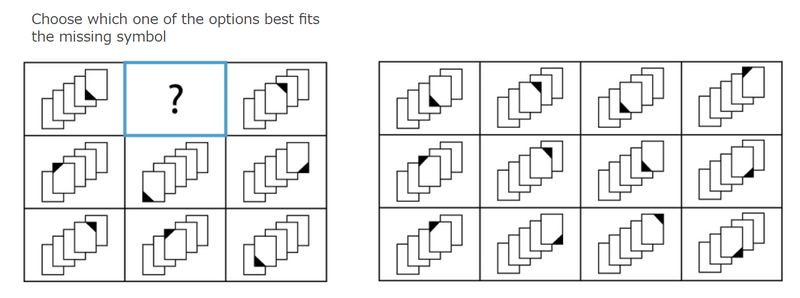
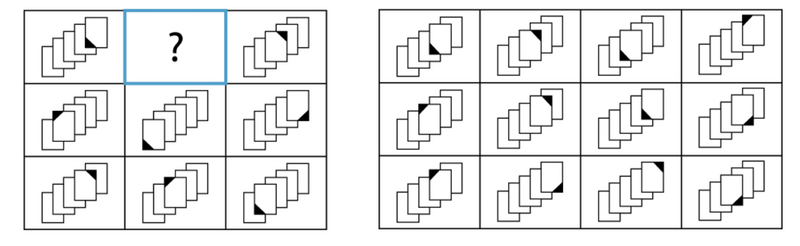
クイズ: 本番を8問に（第7・8問を追加）、回答と所要時間をシートへ記録、ウォームアップ画面を短く
- index.html: 本番の問題を6問→8問（q7・q8）、所要時間の案内を約9分に、送信に8問の選んだ番号と所要時間を入れる
- ウォームアップ画面: 冒頭の1文を上の帯へまとめ、説明の囲みを1つに、字を16pxに（縦幅を短く）
- 画像: q7・q8 を追加、q3・q8・warmup の上部の英語の指示文を切り落とし
- Code.gs: 第7・8問（M〜N列）と第1〜8問の所要時間（O〜V列）を書く。送信に無い問題は空欄。受け取った値の型・範囲を絞る（数式の埋め込み防止）
- README: 列の対応・デプロイ更新の手順を8問用に

Changed region(s): [[0.4688, 0.0285, 1.0, 0.9675], [0.0312, 0.0285, 0.4375, 0.9675]]

diff --git a/quiz/index.html b/quiz/index.html
@@ -97,10 +97,9 @@
 
   /* ---- Warmup explanation ---- */
   .explain { background: #f8fafc; border: 1px solid var(--border); border-radius: 12px; padding: 16px 18px; margin: 16px 0; }
-  .explain h2 { font-size: 16px; }
-  .explain p { font-size: 14px; }
+  .explain p { font-size: 16px; margin-bottom: 8px; }
   .explain ul { margin: 8px 0 0; padding-left: 20px; }
-  .explain li { font-size: 14px; line-height: 1.7; margin-bottom: 6px; }
+  .explain li { font-size: 16px; line-height: 1.7; margin-bottom: 4px; }
   .badge { display: inline-block; background: #fef3c7; color: #92400e; font-size: 12px; font-weight: 700; padding: 3px 10px; border-radius: 99px; margin-bottom: 10px; }
 
   /* ---- End screen ---- */
@@ -122,7 +121,7 @@
   <section id="screen-start" class="screen active">
     <div class="card">
       <h1>パターン認識クイズ</h1>
-      <p class="muted">所要時間の目安：約7分（ウォーミングアップ1問＋本番6問、各1分）</p>
+      <p class="muted">所要時間の目安：約9分（ウォーミングアップ1問＋本番8問、各1分）</p>
       <p>パターン（規則性）を見つける問題に取り組んでいただきます。左側のイラストの「?」に当てはまるものを、右側の選択肢から選んでください。</p>
 
       <ul class="muted" style="line-height:1.8; font-size:16px;">
@@ -154,22 +153,15 @@
   <section id="screen-warmup" class="screen">
     <div class="card">
       <div class="topbar">
-        <span class="progress-label">ウォーミングアップ（採点対象外）</span>
+        <span class="progress-label">ウォーミングアップ（採点対象外）：気軽に解き方を確認してください</span>
         <span id="warmup-timer" class="timer">1:00</span>
       </div>
       <div class="timebar-track"><div id="warmup-bar" class="timebar-fill"></div></div>
 
-      <p>この問題はウォーミングアップ用です。<strong>採点対象外</strong>なので、気軽に解き方を確認してください。</p>
-
       <div class="qimg-box"><img src="images/warmup.png" alt="ウォーミングアップ問題"></div>
 
       <div class="explain">
-        <h2>回答方法</h2>
-        <p>左側の 3×3 マスには規則が隠れています。「?」に入るものを規則から推測し、右側の選択肢（１〜１２）から答えを選んでください。</p>
-      </div>
-
-      <div class="explain">
-        <h2>解き方のポイント（この問題の場合）</h2>
+        <p>左側の 3×3 マスには規則が隠れています。「?」に入るものを規則から推測し、右側の選択肢（1〜12）から答えを選んでください。</p>
         <p>この問題には規則が2つあります。</p>
         <ul>
           <li><strong>規則1：線の角度</strong> ― 各行を左から右に見ると、線が45度ずつ回転しています。</li>
@@ -183,11 +175,11 @@
     </div>
   </section>
 
-  <!-- ===== QUIZ (reused q1-q6) ===== -->
+  <!-- ===== QUIZ (reused q1-q8) ===== -->
   <section id="screen-quiz" class="screen">
     <div class="card">
       <div class="topbar">
-        <span id="q-progress" class="progress-label">問題 1 / 6</span>
+        <span id="q-progress" class="progress-label">問題 1 / 8</span>
         <span id="q-timer" class="timer">1:00</span>
       </div>
       <div class="timebar-track"><div id="q-bar" class="timebar-fill"></div></div>
@@ -229,7 +221,9 @@
     { id: "q3", img: "images/q3.png" },
     { id: "q4", img: "images/q4.png" },
     { id: "q5", img: "images/q5.png" },
-    { id: "q6", img: "images/q6.png" }
+    { id: "q6", img: "images/q6.png" },
+    { id: "q7", img: "images/q7.png" },
+    { id: "q8", img: "images/q8.png" }
   ];
 
   // ====== STATE ======
